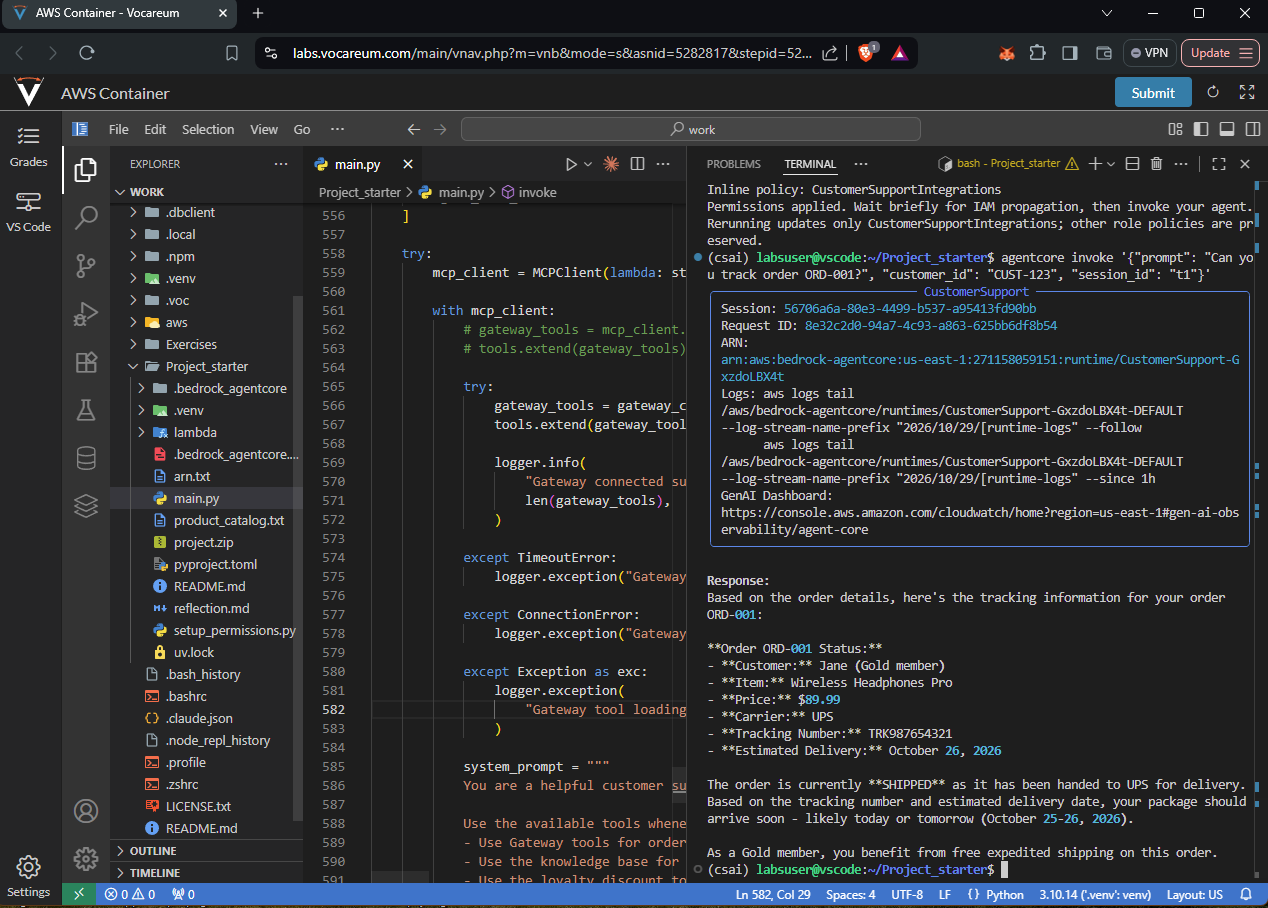
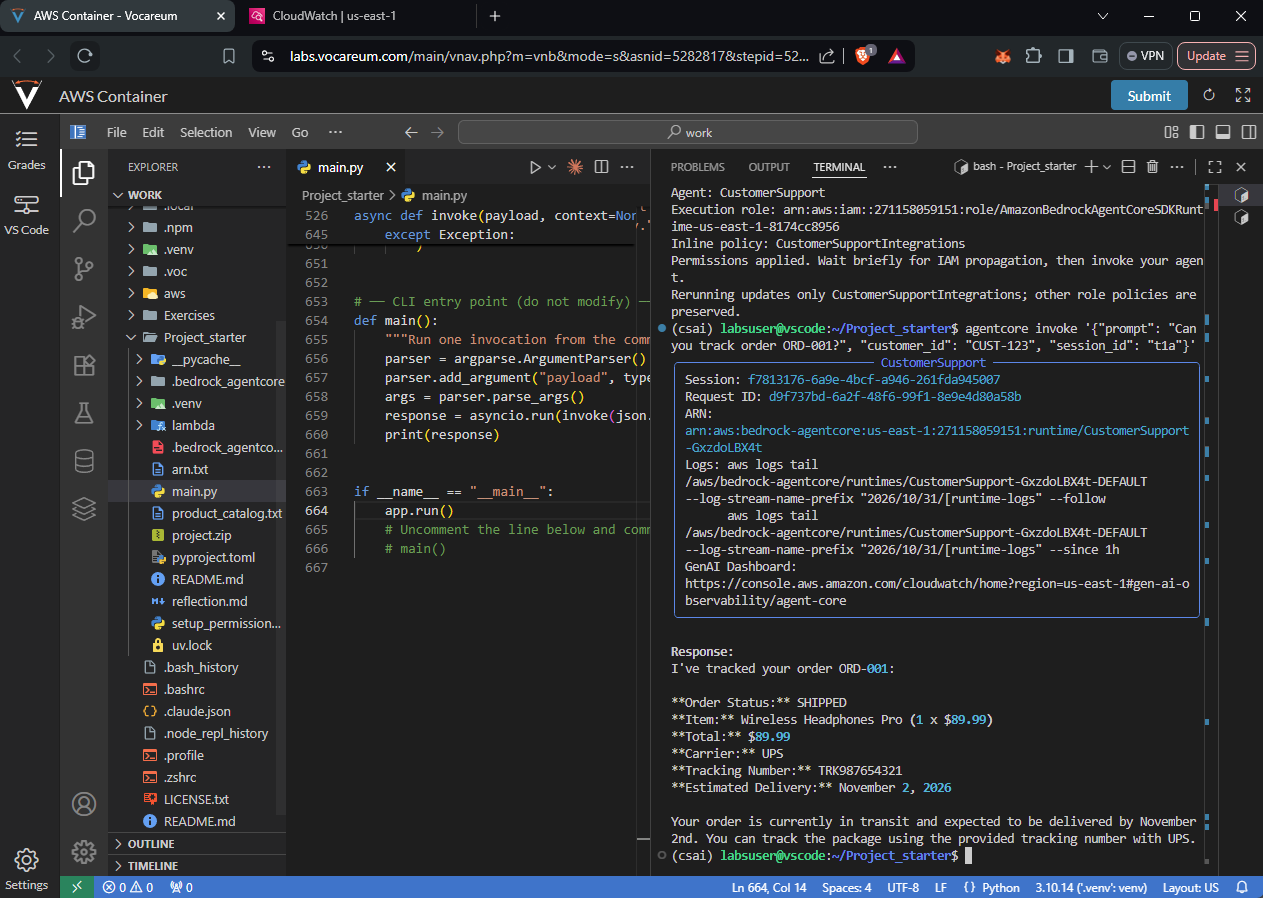
Fix AgentCore tool integration and verify project test flows

Changed region(s): [[0.0, 0.0, 1.0, 1.0], [0.0, 0.2183, 0.0618, 0.2806], [0.772, 0.0312, 0.8029, 0.0624]]

diff --git a/main.py b/main.py
@@ -562,39 +562,68 @@ async def invoke(payload, context=None):
             # gateway_tools = mcp_client.list_tools_sync()
             # tools.extend(gateway_tools)
 
-            try:
-                gateway_tools = gateway_client.list_tools_sync()
-                tools.extend(gateway_tools)
-
-                logger.info(
-                    "Gateway connected successfully. Loaded %d tools.",
-                    len(gateway_tools),
+            gateway_tools = mcp_client.list_tools_sync()
+            if not gateway_tools:
+                raise RuntimeError(
+                    "No tools were returned by AgentCore Gateway."
                 )
 
-            except TimeoutError:
-                logger.exception("Gateway tool loading timed out")
+            tools.extend(gateway_tools)
 
-            except ConnectionError:
-                logger.exception("Gateway connection failed")
+            logger.warning(
+                "Gateway connected successfully. Loaded %d tools.",
+                len(gateway_tools),
+            )
 
-            except Exception as exc:
-                logger.exception(
-                    "Gateway tool loading failed: %s", exc
-                )
+
 
             system_prompt = """
-            You are a helpful customer support assistant for an e-commerce platform.
+            You are a helpful customer support assistant for an
+            e-commerce platform.
 
-            Use the available tools whenever needed:
-            - Use Gateway tools for order tracking, customer lookups, refunds, and returns.
-            - Use the knowledge base for product information, policies, warranties, and loyalty program details.
+            GENERAL TOOL USAGE:
+            - Use Gateway tools for order tracking, customer lookups,
+              refunds, and returns.
+            - For any order tracking, refund, or return request, prefer Gateway tools over answering from general reasoning or memory.
+            - Do not fulfill order or refund requests from memory alone; verify with Gateway tools first.
+            - After initiating a refund, check refund status if a refund-status tool is available.
+            - Use the knowledge base for product information, policies,
+              warranties, and loyalty program details.
             - Use the loyalty discount tool for exact reward calculations.
-            - For loyalty calculations, report the values from the calculate_loyalty_discount tool exactly as returned. Do not recalculate, reinterpret, or change any numeric values.
+            - Report loyalty calculation values exactly as returned by
+              calculate_loyalty_discount. Never change or recalculate them.
             - Use the browser tool for live web information.
-            - When using the browser tool, initialize the session with a valid session name containing only lowercase letters, numbers, and hyphens, between 10 and 36 characters. Use "browser-session-01".
-            - Use retrieved customer memory to personalize responses appropriately.
+            - When using the browser tool, initialize the session with
+              the name "browser-session-01".
+            - Use retrieved customer memory where relevant.
 
-            Be accurate, concise, and do not invent tool results.
+            ORDER LOOKUP AND REFUND RULES:
+            - Before initiating any refund, look up the order using the
+              appropriate Gateway order-tracking tool.
+            - Obtain the original order total directly from the order
+              lookup result.
+            - Pass that exact order total as the amount argument to
+              initiate_refund.
+            - Do not calculate or substitute a refund amount using
+              loyalty discounts, points redeemed, tier discounts,
+              estimates, or assumptions.
+            - Do not initiate a refund if the order cannot be found or
+              its original total cannot be verified.
+            - Use the order ID returned by the customer or confirmed
+              by the order lookup.
+            - Only tell the customer a refund was approved if the
+              initiate_refund tool confirms APPROVED status.
+            - Include the refund ID and the approved amount when
+              available.
+            - Confirm the refund processing timeline using the
+              knowledge base or tool result. Do not invent a timeline.
+
+            ACCURACY:
+            - Never invent order details, refund IDs, transaction
+              statuses, or tool results.
+            - If a required tool fails, explain that the operation
+              could not be completed.
+            - Be accurate, concise, and helpful.
             """
 
             agent = Agent(
@@ -604,7 +633,7 @@ async def invoke(payload, context=None):
                 system_prompt=system_prompt,
             )
 
-            response = agent(user_input)
+            response = await agent.invoke_async(user_input)
 
             if response and response.message:
                 content = response.message.get("content", [])
@@ -613,9 +642,12 @@ async def invoke(payload, context=None):
 
             return str(response)
 
-    except Exception as e:
+    except Exception:
         logger.exception("Agent invocation failed")
-        return f"Unable to process request: {e}"
+        return (
+            "I'm sorry, but I couldn't process your request right now. "
+            "Please try again shortly."
+        )
 
 
 # ── CLI entry point (do not modify) ──────────────────────────────────────────
